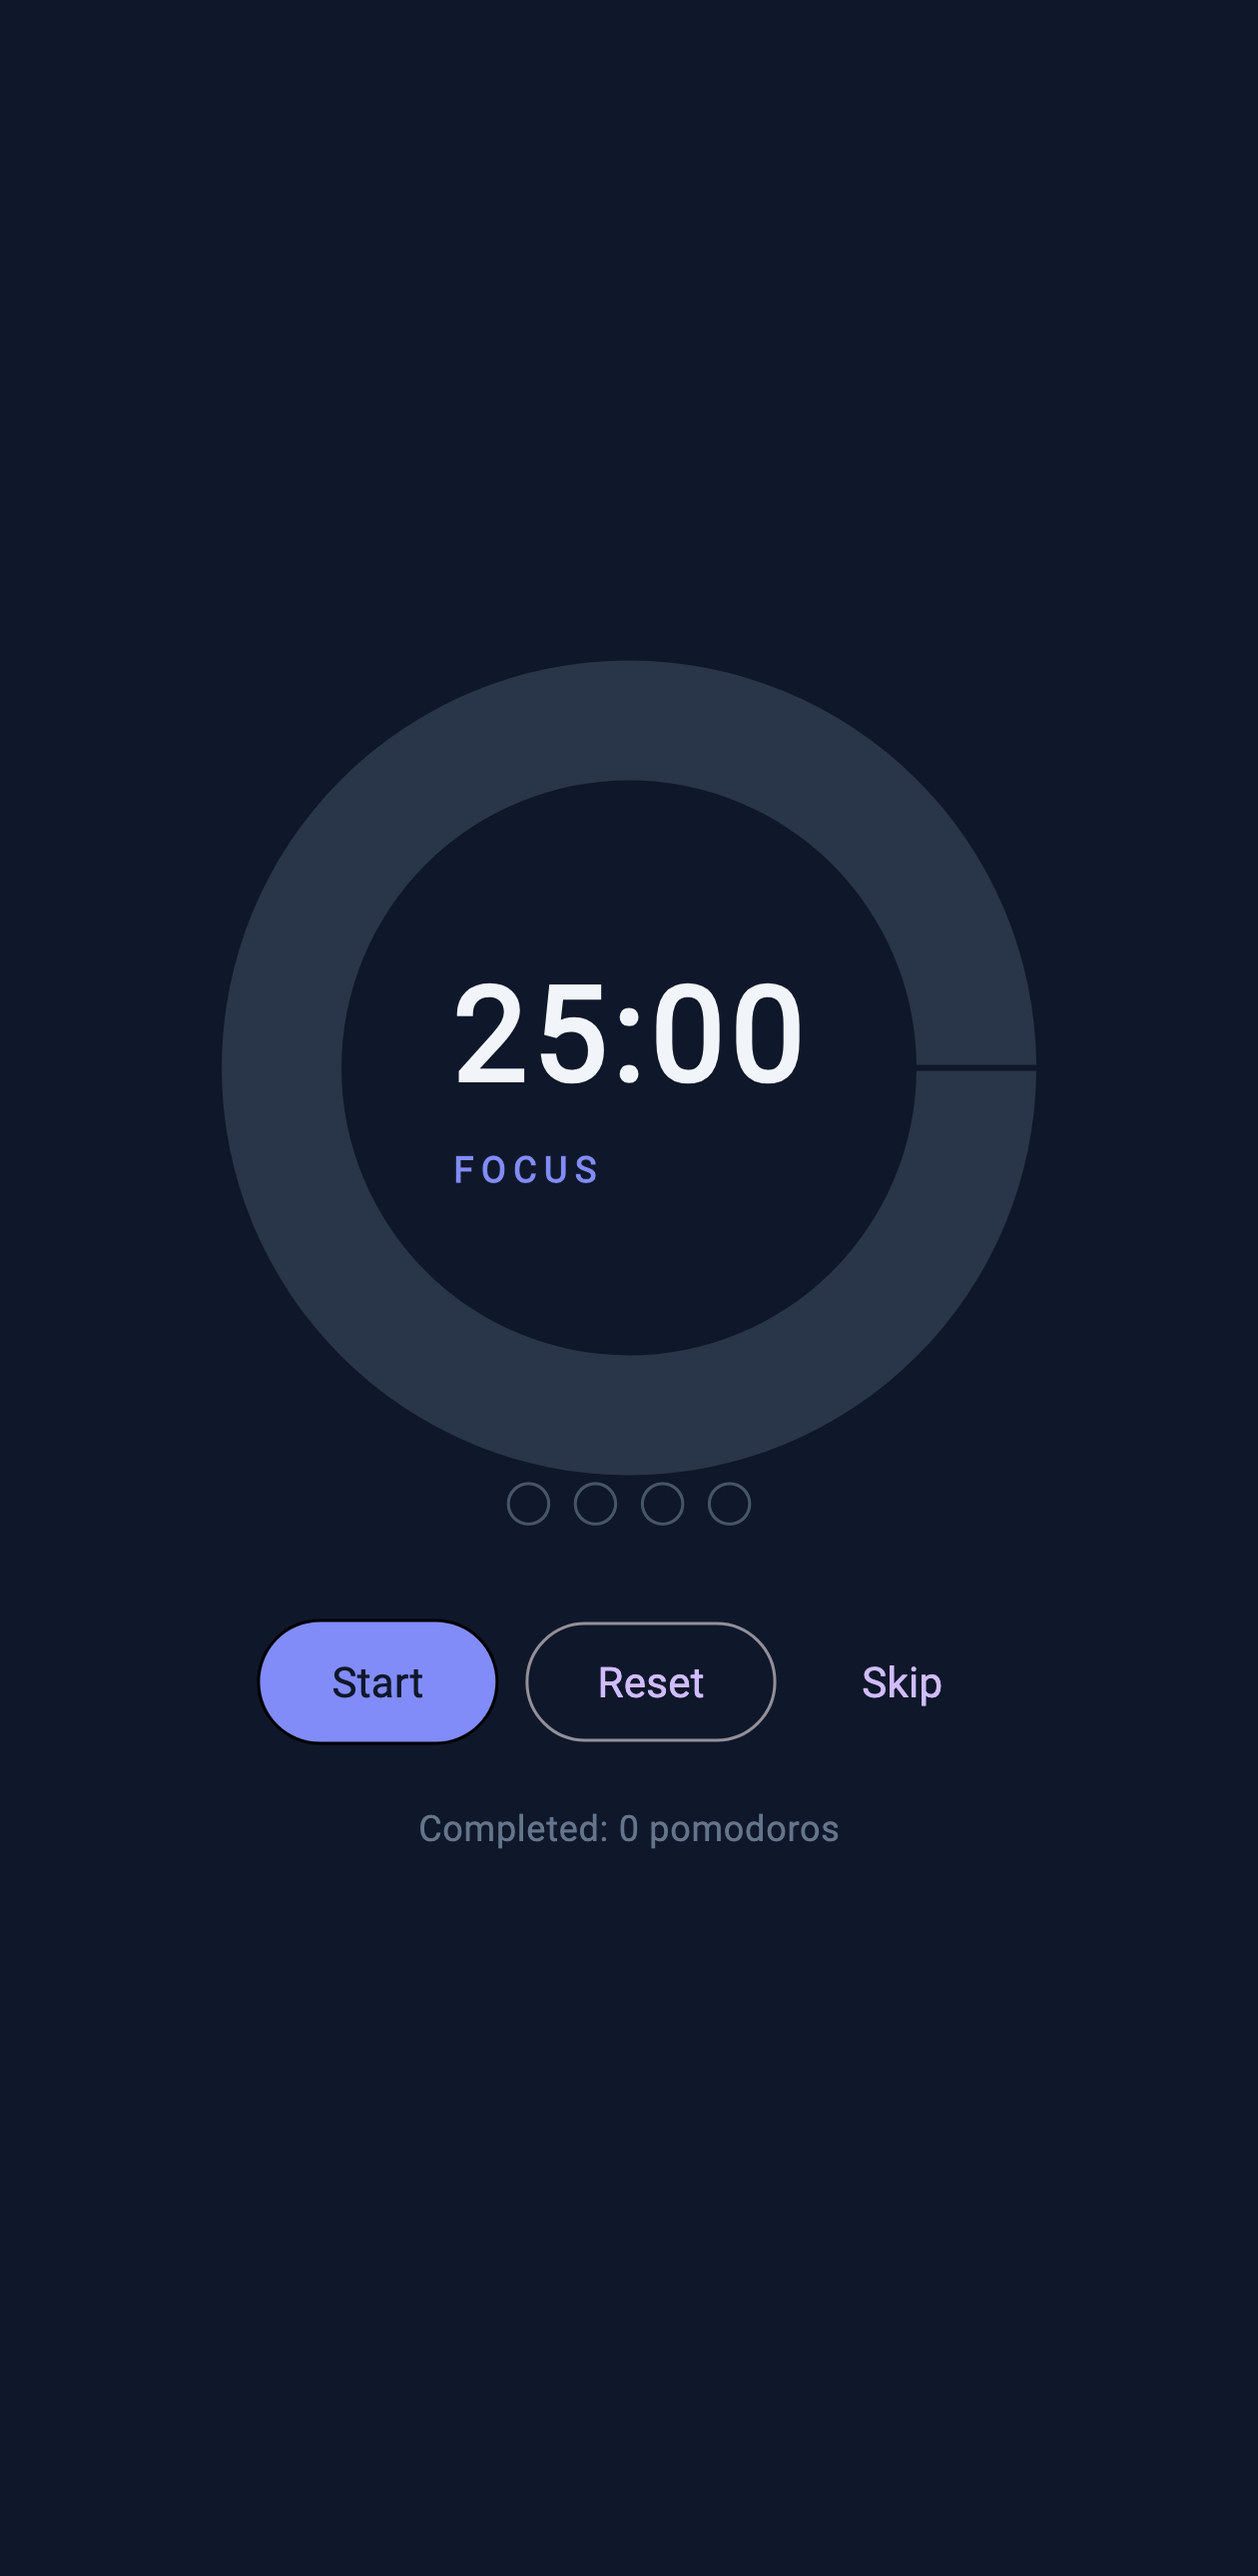
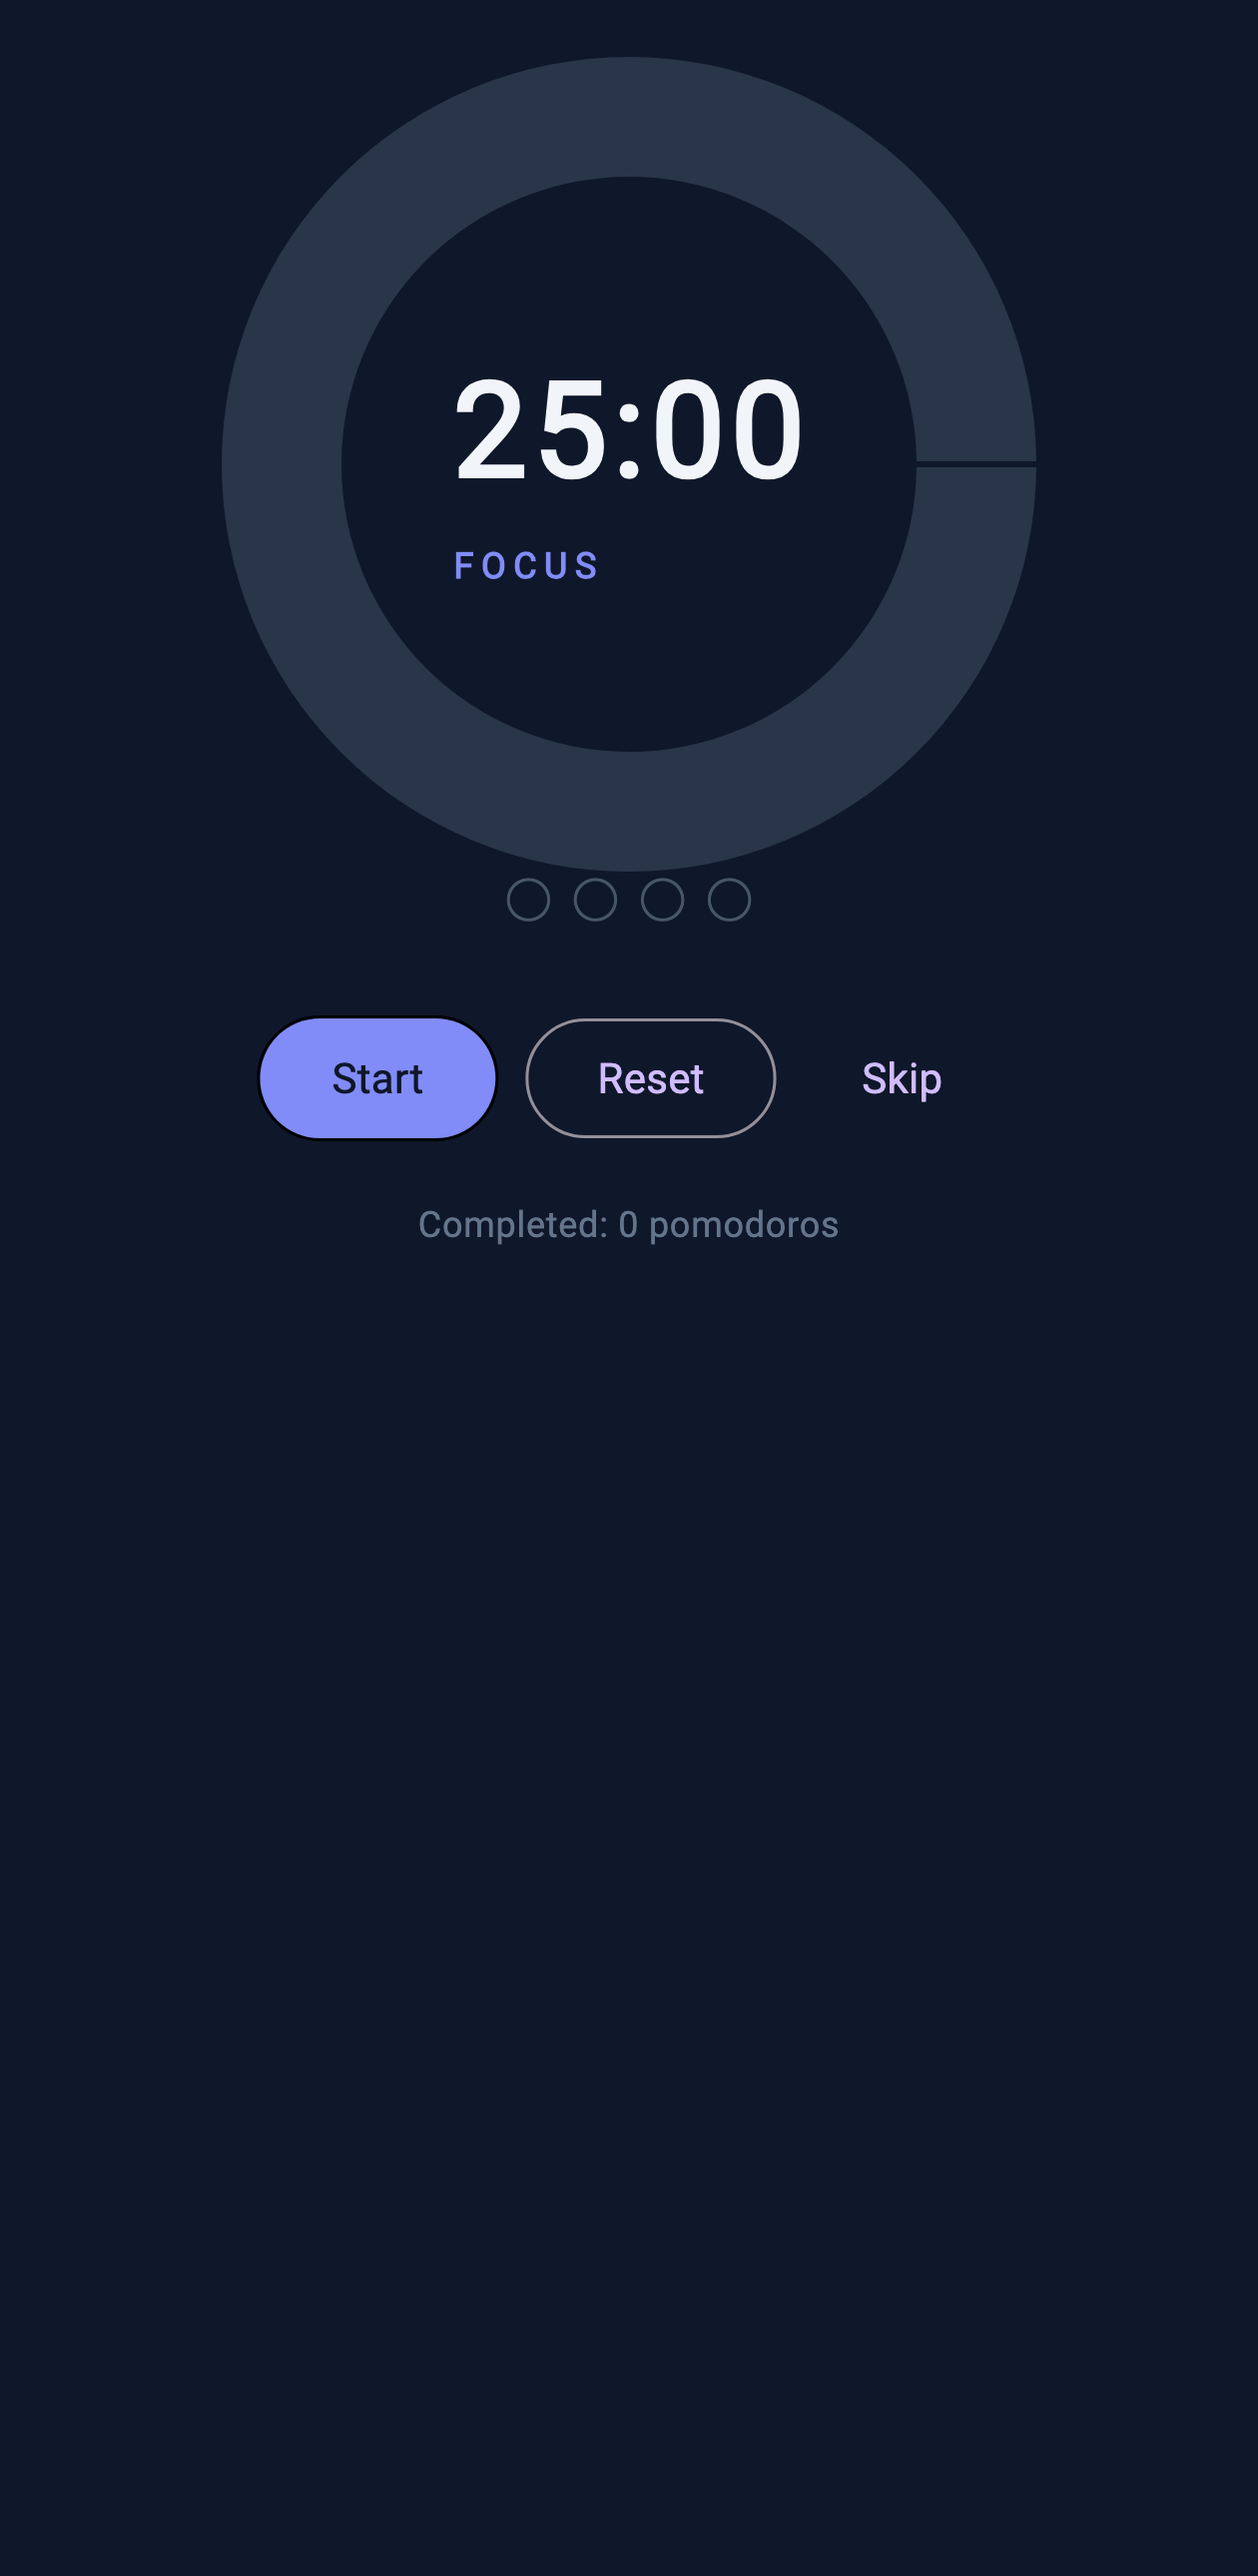
Make pomodoro root scrollable; document the root-scrollability layout contract
Hosts embed widgets at arbitrary heights (~150 px cards, panels); a fixed
centered column paints BOTTOM OVERFLOWED stripes in a short host (the
fa_widgets focus-timer incident). The renderer deliberately does not
auto-wrap roots — scrollability is the widget's job. Pomodoro's root is
now a listView (shrinkWrap: false + padding); contract recorded in
AGENTS.md and the widget-authoring skill.

diff --git a/example/widgets/pomodoro/widget.js b/example/widgets/pomodoro/widget.js
@@ -123,38 +123,37 @@
     jsr.render({
       type: 'container',
       color: t.bg,
+      // Scrollable root by contract: hosts embed widgets at arbitrary
+      // heights (~150px cards), a fixed centered column overflows there.
       child: {
-        type: 'center',
-        child: {
-          type: 'column', mainAxisSize: 'min', crossAxisAlignment: 'center',
-          children: [
-            ring(t),
-            { type: 'sizedBox', height: 20 },
-            cycleDots(t),
-            { type: 'sizedBox', height: 20 },
-            {
-              type: 'row', mainAxisAlignment: 'center',
-              children: [
-                {
-                  type: 'button',
-                  text: state.running ? 'Pause' : 'Start',
-                  style: { backgroundColor: state.mode === 'focus' ? t.accent : t.accent2, foregroundColor: t.onAccent },
-                  onTap: 'start_pause'
-                },
-                { type: 'sizedBox', width: 10 },
-                { type: 'outlinedButton', text: 'Reset', onTap: 'reset' },
-                { type: 'sizedBox', width: 10 },
-                { type: 'textButton', text: 'Skip', onTap: 'skip' }
-              ]
-            },
-            { type: 'sizedBox', height: 16 },
-            {
-              type: 'text',
-              data: 'Completed: ' + state.completed + ' pomodoro' + (state.completed === 1 ? '' : 's'),
-              style: { color: t.muted, fontSize: 12 }
-            }
-          ]
-        }
+        type: 'listView', shrinkWrap: false, padding: [16, 40, 16, 24],
+        children: [
+          { type: 'center', child: ring(t) },
+          { type: 'sizedBox', height: 20 },
+          cycleDots(t),
+          { type: 'sizedBox', height: 20 },
+          {
+            type: 'row', mainAxisAlignment: 'center',
+            children: [
+              {
+                type: 'button',
+                text: state.running ? 'Pause' : 'Start',
+                style: { backgroundColor: state.mode === 'focus' ? t.accent : t.accent2, foregroundColor: t.onAccent },
+                onTap: 'start_pause'
+              },
+              { type: 'sizedBox', width: 10 },
+              { type: 'outlinedButton', text: 'Reset', onTap: 'reset' },
+              { type: 'sizedBox', width: 10 },
+              { type: 'textButton', text: 'Skip', onTap: 'skip' }
+            ]
+          },
+          { type: 'sizedBox', height: 16 },
+          {
+            type: 'text',
+            data: 'Completed: ' + state.completed + ' pomodoro' + (state.completed === 1 ? '' : 's'),
+            style: { color: t.muted, fontSize: 12, textAlign: 'center' }
+          }
+        ]
       }
     });
   }

diff --git a/AGENTS.md b/AGENTS.md
@@ -73,6 +73,8 @@ Core methods:
 
 `jsr.theme` keys: `isDark`, `bg`, `surface`, `surfaceAlt`, `border`, `borderBright`, `accent`, `accent2`, `onAccent`, `text`, `muted`. Host `updateTheme` payloads are MERGED onto the bootstrap defaults (`Object.assign`), so a partial map no longer wipes the keys it omits.
 
+Layout contract: hosts embed widgets at arbitrary heights (landing cards ~150 px, panels, full screen). The root node of a widget SHOULD be scrollable (`listView` with `shrinkWrap: false` + padding, or `scroll`) unless the content provably fits ~150 px — a fixed centered column will paint BOTTOM OVERFLOWED stripes in a short host. The renderer deliberately does NOT auto-wrap the root in a scroll view; scrollability is the widget's choice.
+
 Renderer effects ported from YoClip: radial gradients, box shadows, blur nodes, `clip: true` on containers, static/3D transforms, text shadows, `textTransform`.
 
 ## 3D Support

diff --git a/.agents/skills/js-widget-authoring/SKILL.md b/.agents/skills/js-widget-authoring/SKILL.md
@@ -214,6 +214,15 @@ Hardcode hex colors only for brand/data colors (chart series, status dots).
 
 ---
 
+## 5b. Layout contract (root scrollability)
+
+Hosts embed widgets at arbitrary heights (~150 px landing cards, panels,
+full screen). Unless the content provably fits ~150 px, make the ROOT node
+scrollable: `listView` with `shrinkWrap: false` (default is `true` — wrong
+for a bounded root) plus `padding`, or a `scroll` node. A fixed centered
+`column` overflows in a short host (BOTTOM OVERFLOWED stripes). The
+renderer does not auto-wrap roots; scrollability is the widget's job.
+
 ## 6. UI tree — node catalog
 
 Every node is `{type: '...', ...props}`. Children go in `child` (single) or
